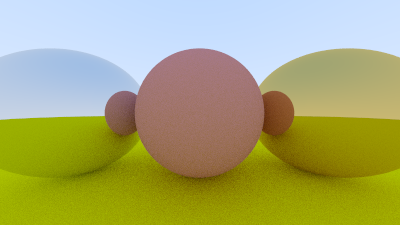
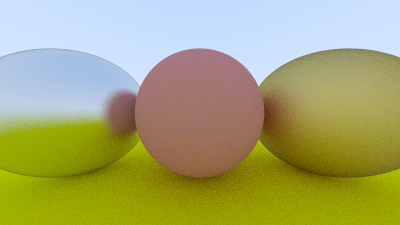
Add fuzziness to metal reflections

diff --git a/src/Main.cpp b/src/Main.cpp
@@ -20,9 +20,10 @@
 #include <filesystem>
 
 Vec3 colorFromRay(const Ray &r, const Hittable &world, int depth) {
+  Vec3 black = Vec3::ZERO;
+
   // If exceeded ray bounce limit, no more light is gathered
   if (depth <= 0) {
-    Vec3 black{0, 0, 0};
     return black;
   }
 
@@ -38,7 +39,7 @@ Vec3 colorFromRay(const Ray &r, const Hittable &world, int depth) {
         attenuation.z * colorResult.z
       };
     }
-    return Vec3::ZERO;
+    return black;
   }
 
   Vec3 white{1, 1, 1};
@@ -53,8 +54,8 @@ HittableList createWorld() {
 
   auto groundMat = std::make_shared<Lambertian>(Vec3{0.8, 0.8, 0});
   auto centerMat = std::make_shared<Lambertian>(Vec3{0.7, 0.3, 0.3});
-  auto leftMat = std::make_shared<Metal>(Vec3{0.8, 0.8, 0.8});
-  auto rightMat = std::make_shared<Metal>(Vec3{0.8, 0.6, 0.2});
+  auto leftMat = std::make_shared<Metal>(Vec3{0.8, 0.8, 0.8}, 0.3);
+  auto rightMat = std::make_shared<Metal>(Vec3{0.8, 0.6, 0.2}, 1);
 
   auto groundSphere = std::make_shared<Sphere>(Vec3{0, -100.5, -1}, 100, groundMat);
   auto centerSphere = std::make_shared<Sphere>(Vec3{0, 0, -1}, 0.5, centerMat);

diff --git a/include/materials/Metal.hpp b/include/materials/Metal.hpp
@@ -4,19 +4,21 @@
 
 class Metal : public Material {
  public:
-  Vec3 &albedo = matAlbedo;
+  Vec3 &albedo = alb;
+  double &fuzziness = fuzz;
 
-  Metal(const Vec3 &albedo) : matAlbedo{albedo} {}
+  Metal(const Vec3 &albedo, const double fuzziness) : alb{albedo}, fuzz{fuzziness} {}
 
   virtual bool scatter(
     const Ray &rayIn, const HitRecord &record, Vec3 &attenuation, Ray &rayOut
   ) const override {
     Vec3 reflected = rayIn.direction.normalized().reflected(record.faceNormal);
-    rayOut = Ray(record.hitPoint, reflected);
+    rayOut = Ray{record.hitPoint, reflected + fuzziness*Vec3::randomInsideUnitSphere()};
     attenuation = albedo;
     return rayOut.direction.dot(record.faceNormal) > 0;
   }
 
  private:
-  Vec3 matAlbedo;
+  Vec3 alb;
+  double fuzz;
 };
